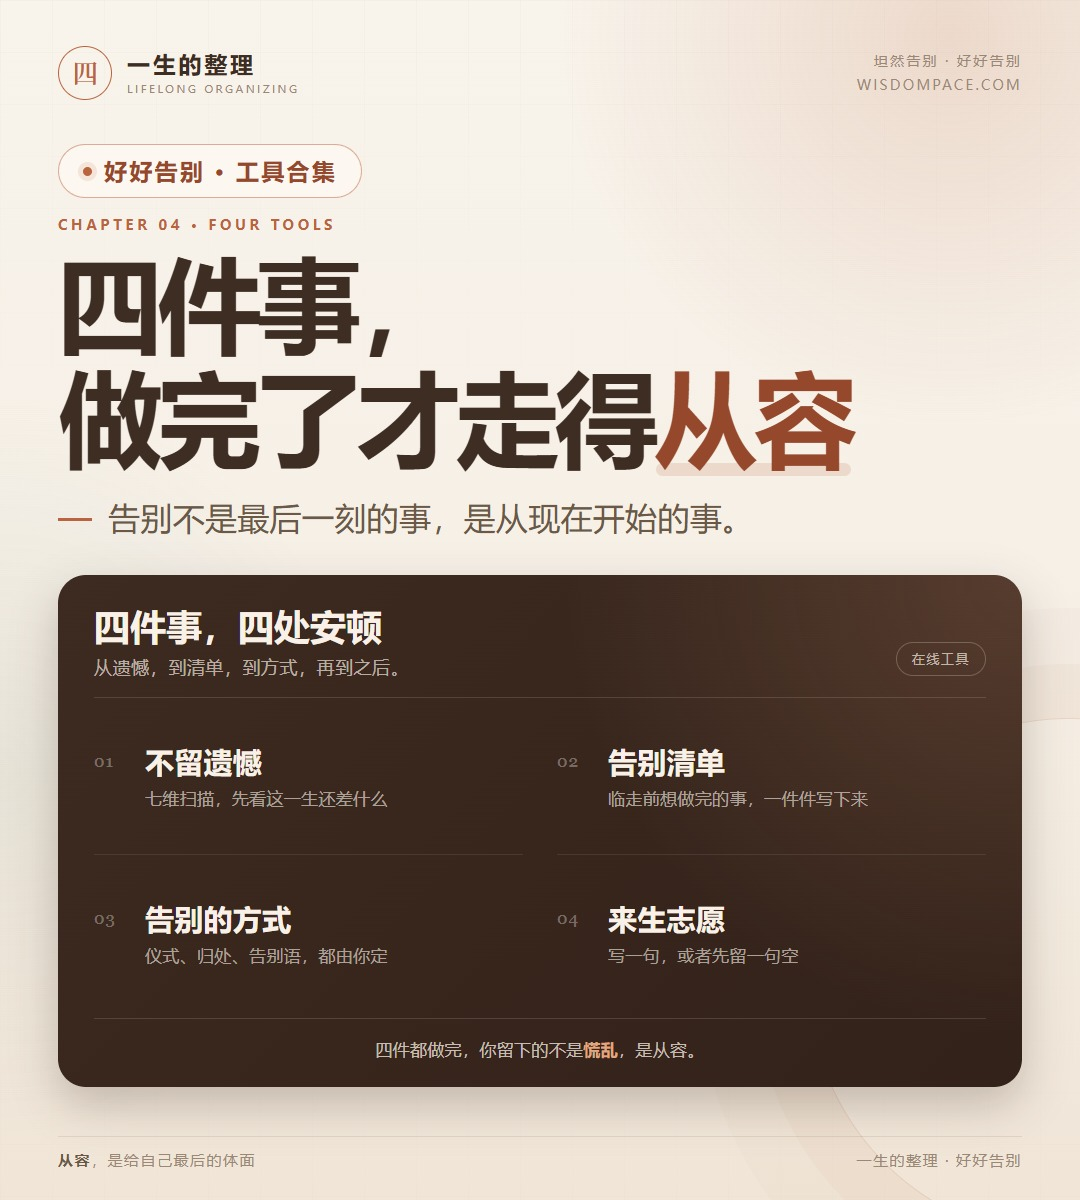
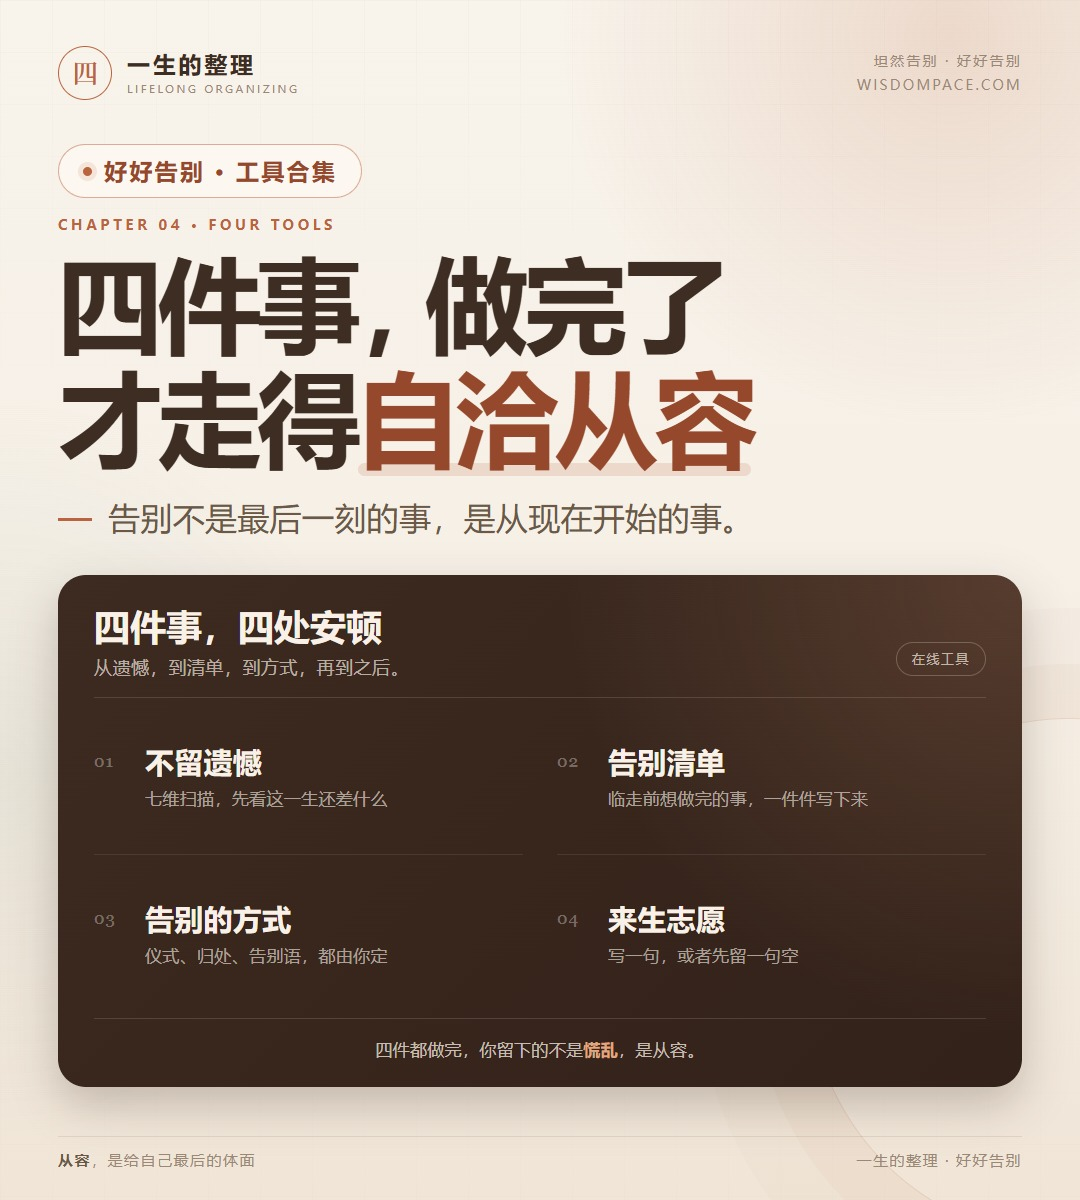
posters: 第四篇主标题改为「四件事，做完了 / 才走得自洽从容」
- 断句改在「做完了」之后，两行各 695px 等宽，标题块由 L 形改为矩形
- 「的」改「得」（走 + 补语，必须用得）
- 加入「自洽」，把第 01 个工具的生命自洽指数钉进标题，四个工具从各做各的
  收束成同一个结果
- 全角逗号在 104px 下右侧留白过大、行中裂成两块，按中文排版惯例做标点
  挤压（h1 .comma { margin-right: -0.30em }），第一行 664px 对第二行 695px

Changed region(s): [[0.0306, 0.2158, 0.7944, 0.4008]]

diff --git a/posters/chapter4-cover.html b/posters/chapter4-cover.html
@@ -148,6 +148,8 @@
       position: relative;
       color: var(--accent-deep);
     }
+    /* 全角逗号在 104px 下右侧留白过大，行中断成两块；按中文排版惯例做标点挤压 */
+    h1 .comma { margin-right: -0.30em; }
     h1 .accent::after {
       content: "";
       position: absolute;
@@ -298,7 +300,7 @@
     <section class="hero">
       <div class="tool-chip"><span class="dot"></span>好好告别 · 工具合集</div>
       <p class="kicker">CHAPTER 04 · FOUR TOOLS</p>
-      <h1>四件事，<br />做完了才走得<span class="accent">从容</span></h1>
+      <h1>四件事<span class="comma">，</span>做完了<br />才走得<span class="accent">自洽从容</span></h1>
       <p class="slogan">告别不是最后一刻的事，是从现在开始的事。</p>
     </section>
 
